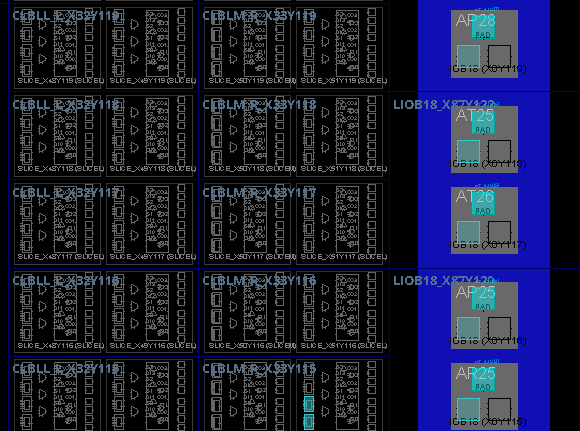
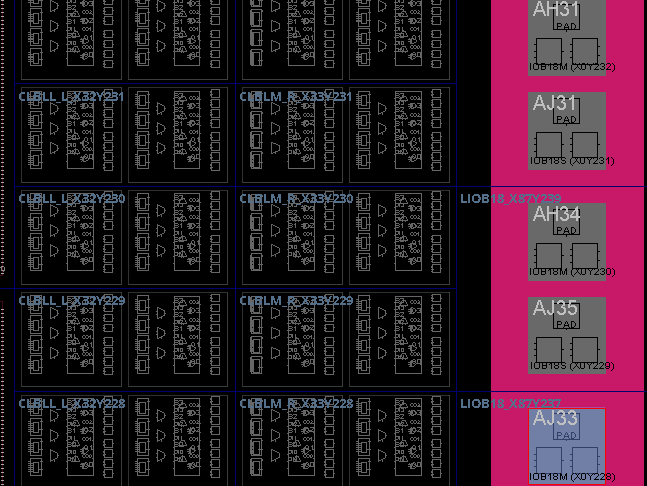
Replace FIFO device screenshots with updated captures

diff --git a/docs/device-views.md b/docs/device-views.md
@@ -4,7 +4,7 @@ These Vivado screenshots show the FPGA device layout and highlighted resource si
 
 ## Device overview
 
-![FPGA device overview with highlighted sites near clock region X0Y2](fifo-device-overview.png)
+![FPGA device overview](fifo-device-overview.png)
 
 ## Resource detail
 
